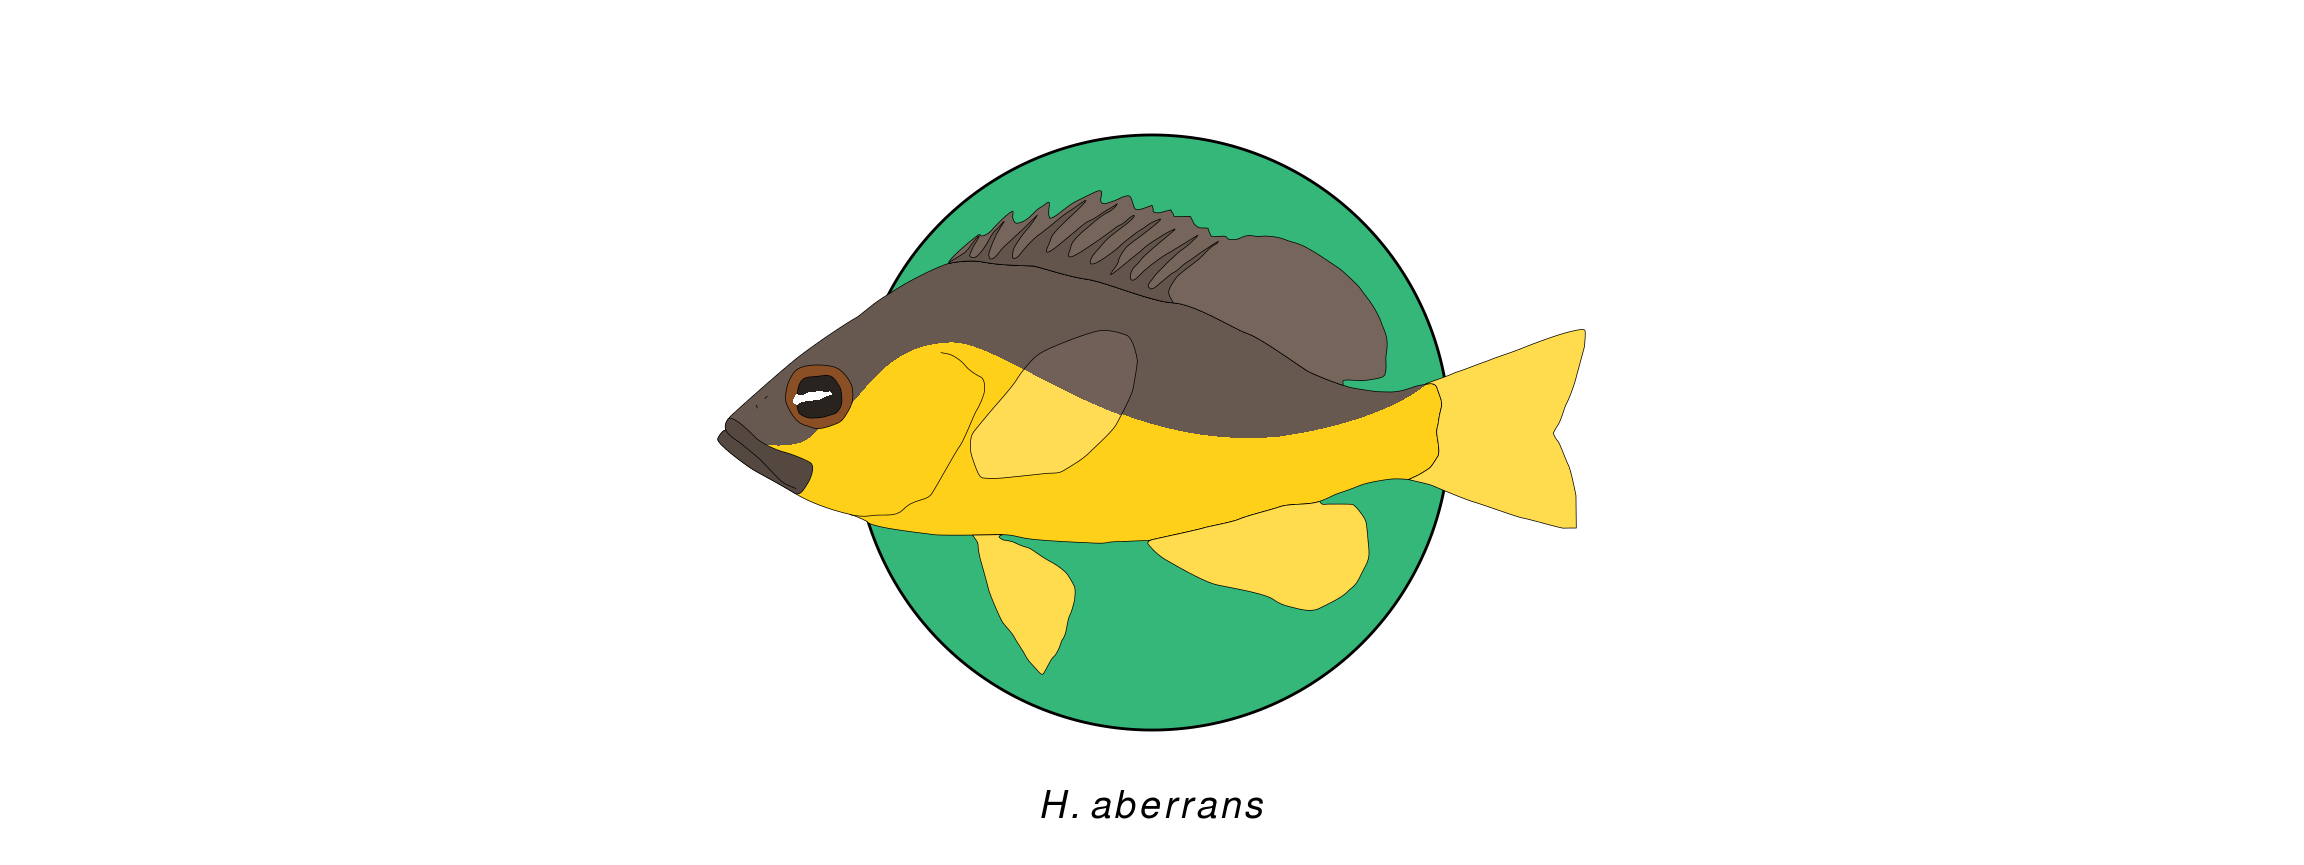
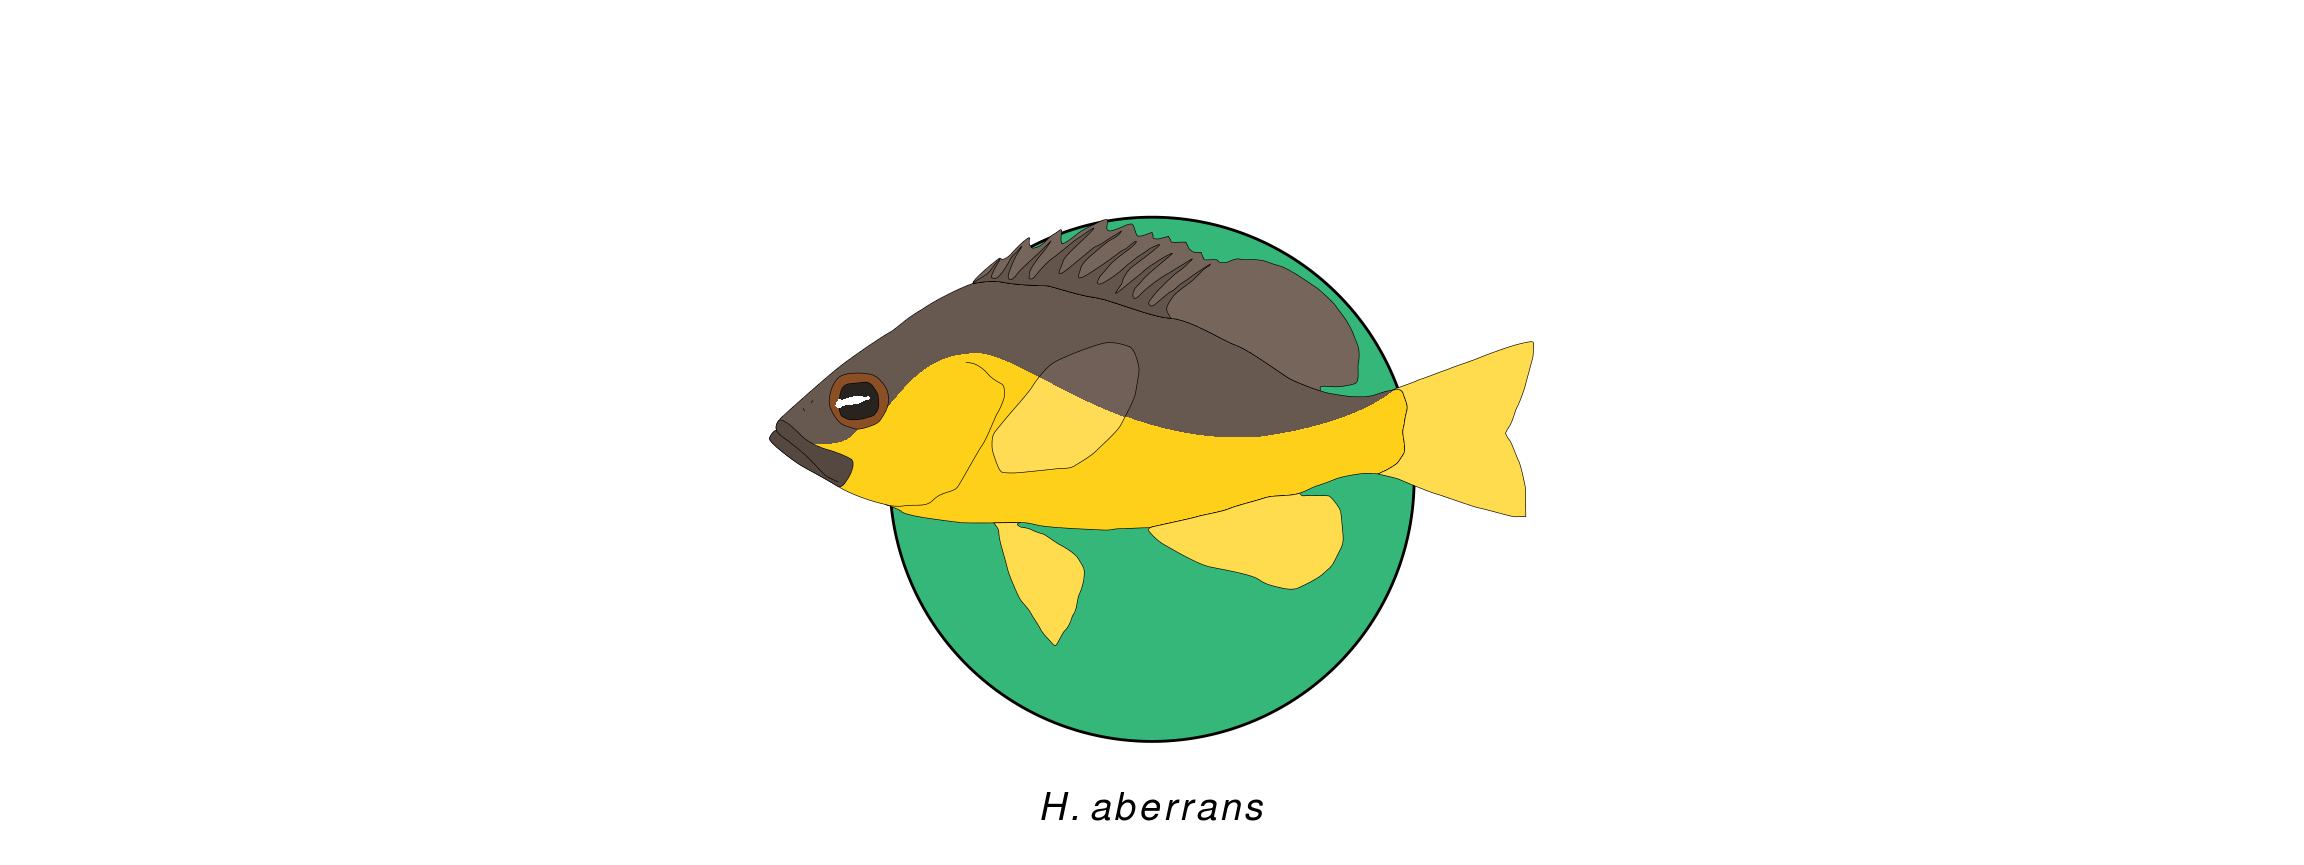
version 1.0.0.3: extend ylims of hypo_anno_single()

diff --git a/docs/reference/hypo_legend_pair_split.html b/docs/reference/hypo_legend_pair_split.html
@@ -212,7 +212,7 @@ from two vectors of hamlet species and a choosen color map (matching in length).
 <span class='no'>right</span> <span class='kw'>&lt;-</span> <span class='fu'><a href='https://www.rdocumentation.org/packages/base/topics/c'>c</a></span>(<span class='st'>'guttavarius'</span>, <span class='st'>'gumigutta'</span>, <span class='st'>'atlahua'</span>, <span class='st'>'randallorum'</span>)
 
 <span class='fu'>hypo_legend_pair</span>(<span class='kw'>left</span><span class='kw'>=</span> <span class='no'>left</span>, <span class='kw'>right</span> <span class='kw'>=</span> <span class='no'>right</span>, <span class='kw'>color_map</span> <span class='kw'>=</span> <span class='no'>clr</span>,
-  <span class='kw'>circle_color</span> <span class='kw'>=</span> <span class='st'>'black'</span>, <span class='kw'>plot_names</span> <span class='kw'>=</span> <span class='fl'>TRUE</span>)</div><div class='img'><img src='hypo_legend_pair_split-1.png' alt='' width='700' height='433' /></div></pre>
+  <span class='kw'>circle_color</span> <span class='kw'>=</span> <span class='st'>'black'</span>, <span class='kw'>plot_names</span> <span class='kw'>=</span> <span class='fl'>TRUE</span>)</div><div class='output co'>#&gt; <span class='error'>Error in .f(left = .l[[1L]][[i]], right = .l[[2L]][[i]], circle_fill = .l[[3L]][[i]],     ...): right %in% hypo_img$spec is not TRUE</span></div></pre>
   </div>
   <div class="col-md-3 hidden-xs hidden-sm" id="sidebar">
     <h2>Contents</h2>

diff --git a/docs/reference/hypo_legend_pair.html b/docs/reference/hypo_legend_pair.html
@@ -207,7 +207,7 @@ from two vectors of hamlet species and a choosen color map (matching in length).
 <span class='no'>right</span> <span class='kw'>&lt;-</span> <span class='fu'><a href='https://www.rdocumentation.org/packages/base/topics/c'>c</a></span>(<span class='st'>'guttavarius'</span>, <span class='st'>'gumigutta'</span>, <span class='st'>'atlahua'</span>, <span class='st'>'randallorum'</span>)
 
 <span class='fu'>hypo_legend_pair</span>(<span class='kw'>left</span><span class='kw'>=</span> <span class='no'>left</span>, <span class='kw'>right</span> <span class='kw'>=</span> <span class='no'>right</span>, <span class='kw'>color_map</span> <span class='kw'>=</span> <span class='no'>clr</span>,
-  <span class='kw'>circle_color</span> <span class='kw'>=</span> <span class='st'>'black'</span>, <span class='kw'>plot_names</span> <span class='kw'>=</span> <span class='fl'>TRUE</span>)</div><div class='img'><img src='hypo_legend_pair-1.png' alt='' width='700' height='433' /></div></pre>
+  <span class='kw'>circle_color</span> <span class='kw'>=</span> <span class='st'>'black'</span>, <span class='kw'>plot_names</span> <span class='kw'>=</span> <span class='fl'>TRUE</span>)</div><div class='output co'>#&gt; <span class='error'>Error in .f(left = .l[[1L]][[i]], right = .l[[2L]][[i]], circle_fill = .l[[3L]][[i]],     ...): right %in% hypo_img$spec is not TRUE</span></div></pre>
   </div>
   <div class="col-md-3 hidden-xs hidden-sm" id="sidebar">
     <h2>Contents</h2>

diff --git a/docs/reference/hypo_anno_single.html b/docs/reference/hypo_anno_single.html
@@ -135,7 +135,7 @@
 
     <pre class="usage"><span class='fu'>hypo_anno_single</span>(<span class='no'>species</span>, <span class='kw'>circle_color</span> <span class='kw'>=</span> <span class='fl'>NA</span>, <span class='kw'>circle_fill</span> <span class='kw'>=</span> <span class='st'>"white"</span>,
   <span class='kw'>circle_lwd</span> <span class='kw'>=</span> <span class='fl'>0.5</span>, <span class='kw'>plot_names</span> <span class='kw'>=</span> <span class='fl'>FALSE</span>, <span class='kw'>plot_name_size</span> <span class='kw'>=</span> <span class='fl'>3</span>,
-  <span class='kw'>font_family</span> <span class='kw'>=</span> <span class='st'>"sans"</span>, <span class='no'>...</span>)</pre>
+  <span class='kw'>font_family</span> <span class='kw'>=</span> <span class='st'>"sans"</span>, <span class='kw'>xlims</span> <span class='kw'>=</span> <span class='fl'>0.45</span>, <span class='no'>...</span>)</pre>
     
     <h2 class="hasAnchor" id="arguments"><a class="anchor" href="#arguments"></a>Arguments</h2>
     <table class="ref-arguments">
@@ -171,6 +171,10 @@ be added?</p></td>
     <tr>
       <th>font_family</th>
       <td><p>string skalar (optional), the species label font family</p></td>
+    </tr>
+    <tr>
+      <th>xlims</th>
+      <td><p>numeric skalar (optional), modifies the horizontal extent of the hamlet</p></td>
     </tr>
     </table>
     

diff --git a/docs/articles/hypoimg.html b/docs/articles/hypoimg.html
@@ -132,7 +132,7 @@ img {
 <a class="sourceLine" id="cb2-9" data-line-number="9"><span class="co">#&gt;  5 ecosur         H     &lt;S3: gTree&gt; &lt;S3: gTree&gt;</span></a>
 <a class="sourceLine" id="cb2-10" data-line-number="10"><span class="co">#&gt;  6 floridae       H     &lt;S3: gTree&gt; &lt;S3: gTree&gt;</span></a>
 <a class="sourceLine" id="cb2-11" data-line-number="11"><span class="co">#&gt;  7 gemma          H     &lt;S3: gTree&gt; &lt;S3: gTree&gt;</span></a>
-<a class="sourceLine" id="cb2-12" data-line-number="12"><span class="co">#&gt;  8 gumigutta      H     &lt;S3: gTree&gt; &lt;S3: gTree&gt;</span></a>
+<a class="sourceLine" id="cb2-12" data-line-number="12"><span class="co">#&gt;  8 gummigutta     H     &lt;S3: gTree&gt; &lt;S3: gTree&gt;</span></a>
 <a class="sourceLine" id="cb2-13" data-line-number="13"><span class="co">#&gt;  9 guttavarius    H     &lt;S3: gTree&gt; &lt;S3: gTree&gt;</span></a>
 <a class="sourceLine" id="cb2-14" data-line-number="14"><span class="co">#&gt; 10 indigo         H     &lt;S3: gTree&gt; &lt;S3: gTree&gt;</span></a>
 <a class="sourceLine" id="cb2-15" data-line-number="15"><span class="co">#&gt; # … with 12 more rows</span></a></code></pre></div>

diff --git a/docs/news/index.html b/docs/news/index.html
@@ -129,6 +129,8 @@
 <a href="#hypoimg-1-0-0-3" class="anchor"></a>hypoimg 1.0.0.3</h1>
 <ul>
 <li>adding parameter xlims to be able to remove the margins of blank hamlet images</li>
+<li>fix species name typo</li>
+<li>adjust hypo_anno_single() y margins</li>
 </ul>
 </div>
     <div id="hypoimg-1-0-0" class="section level1">
